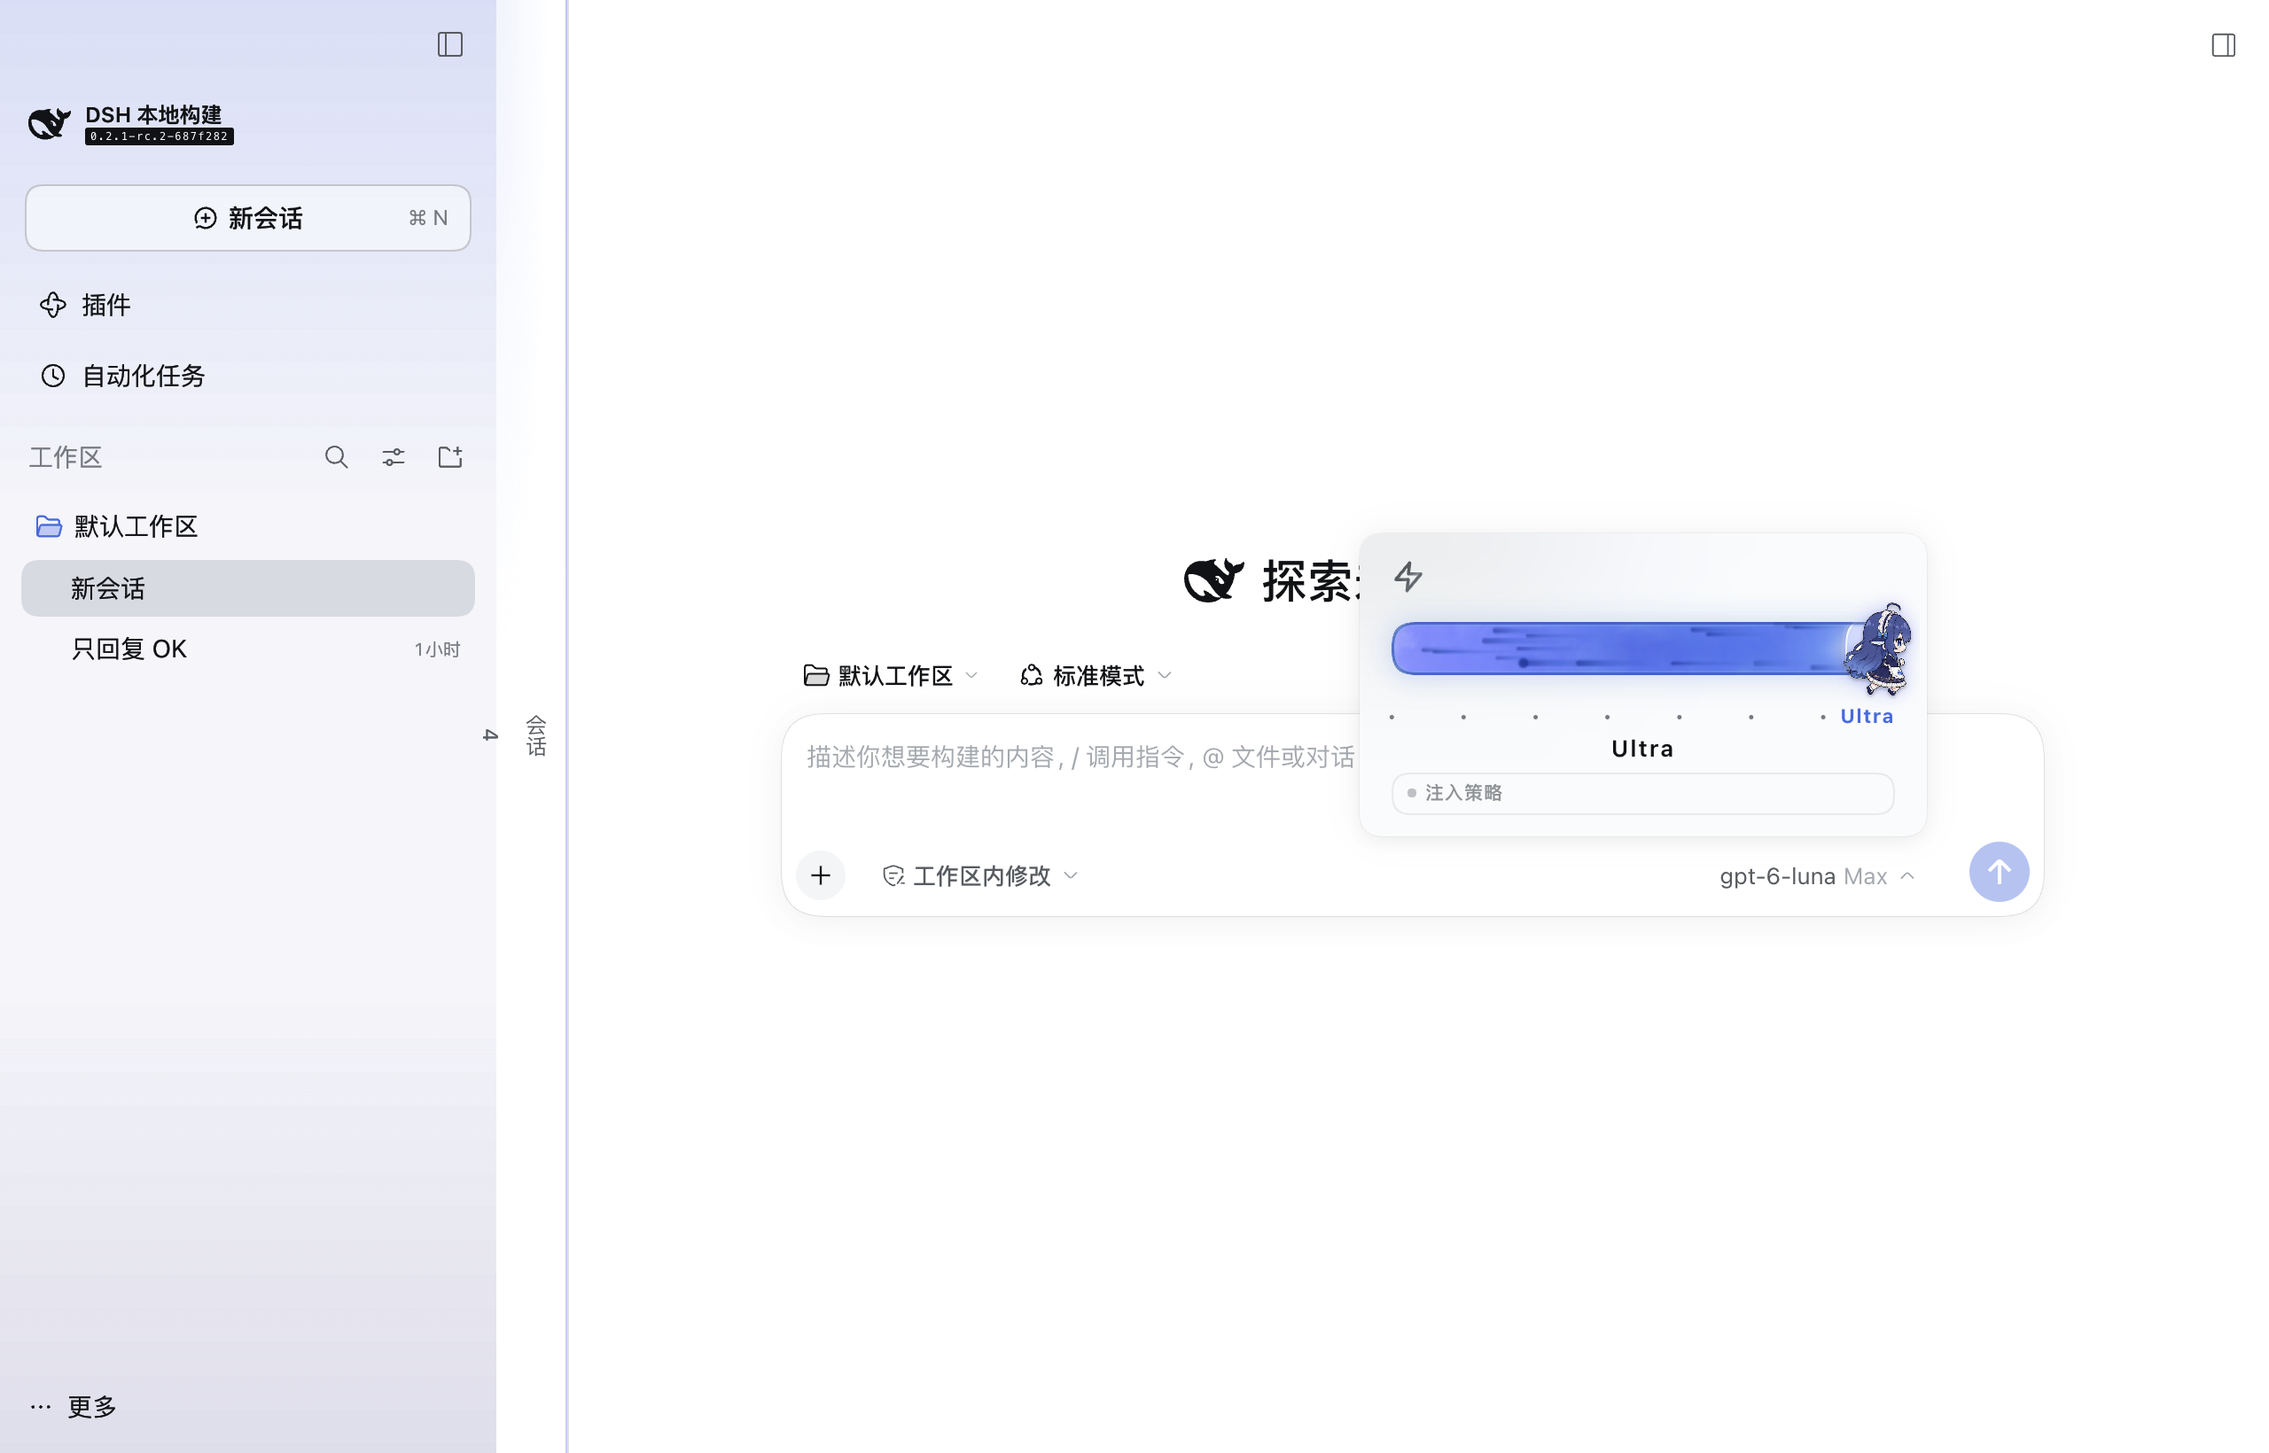
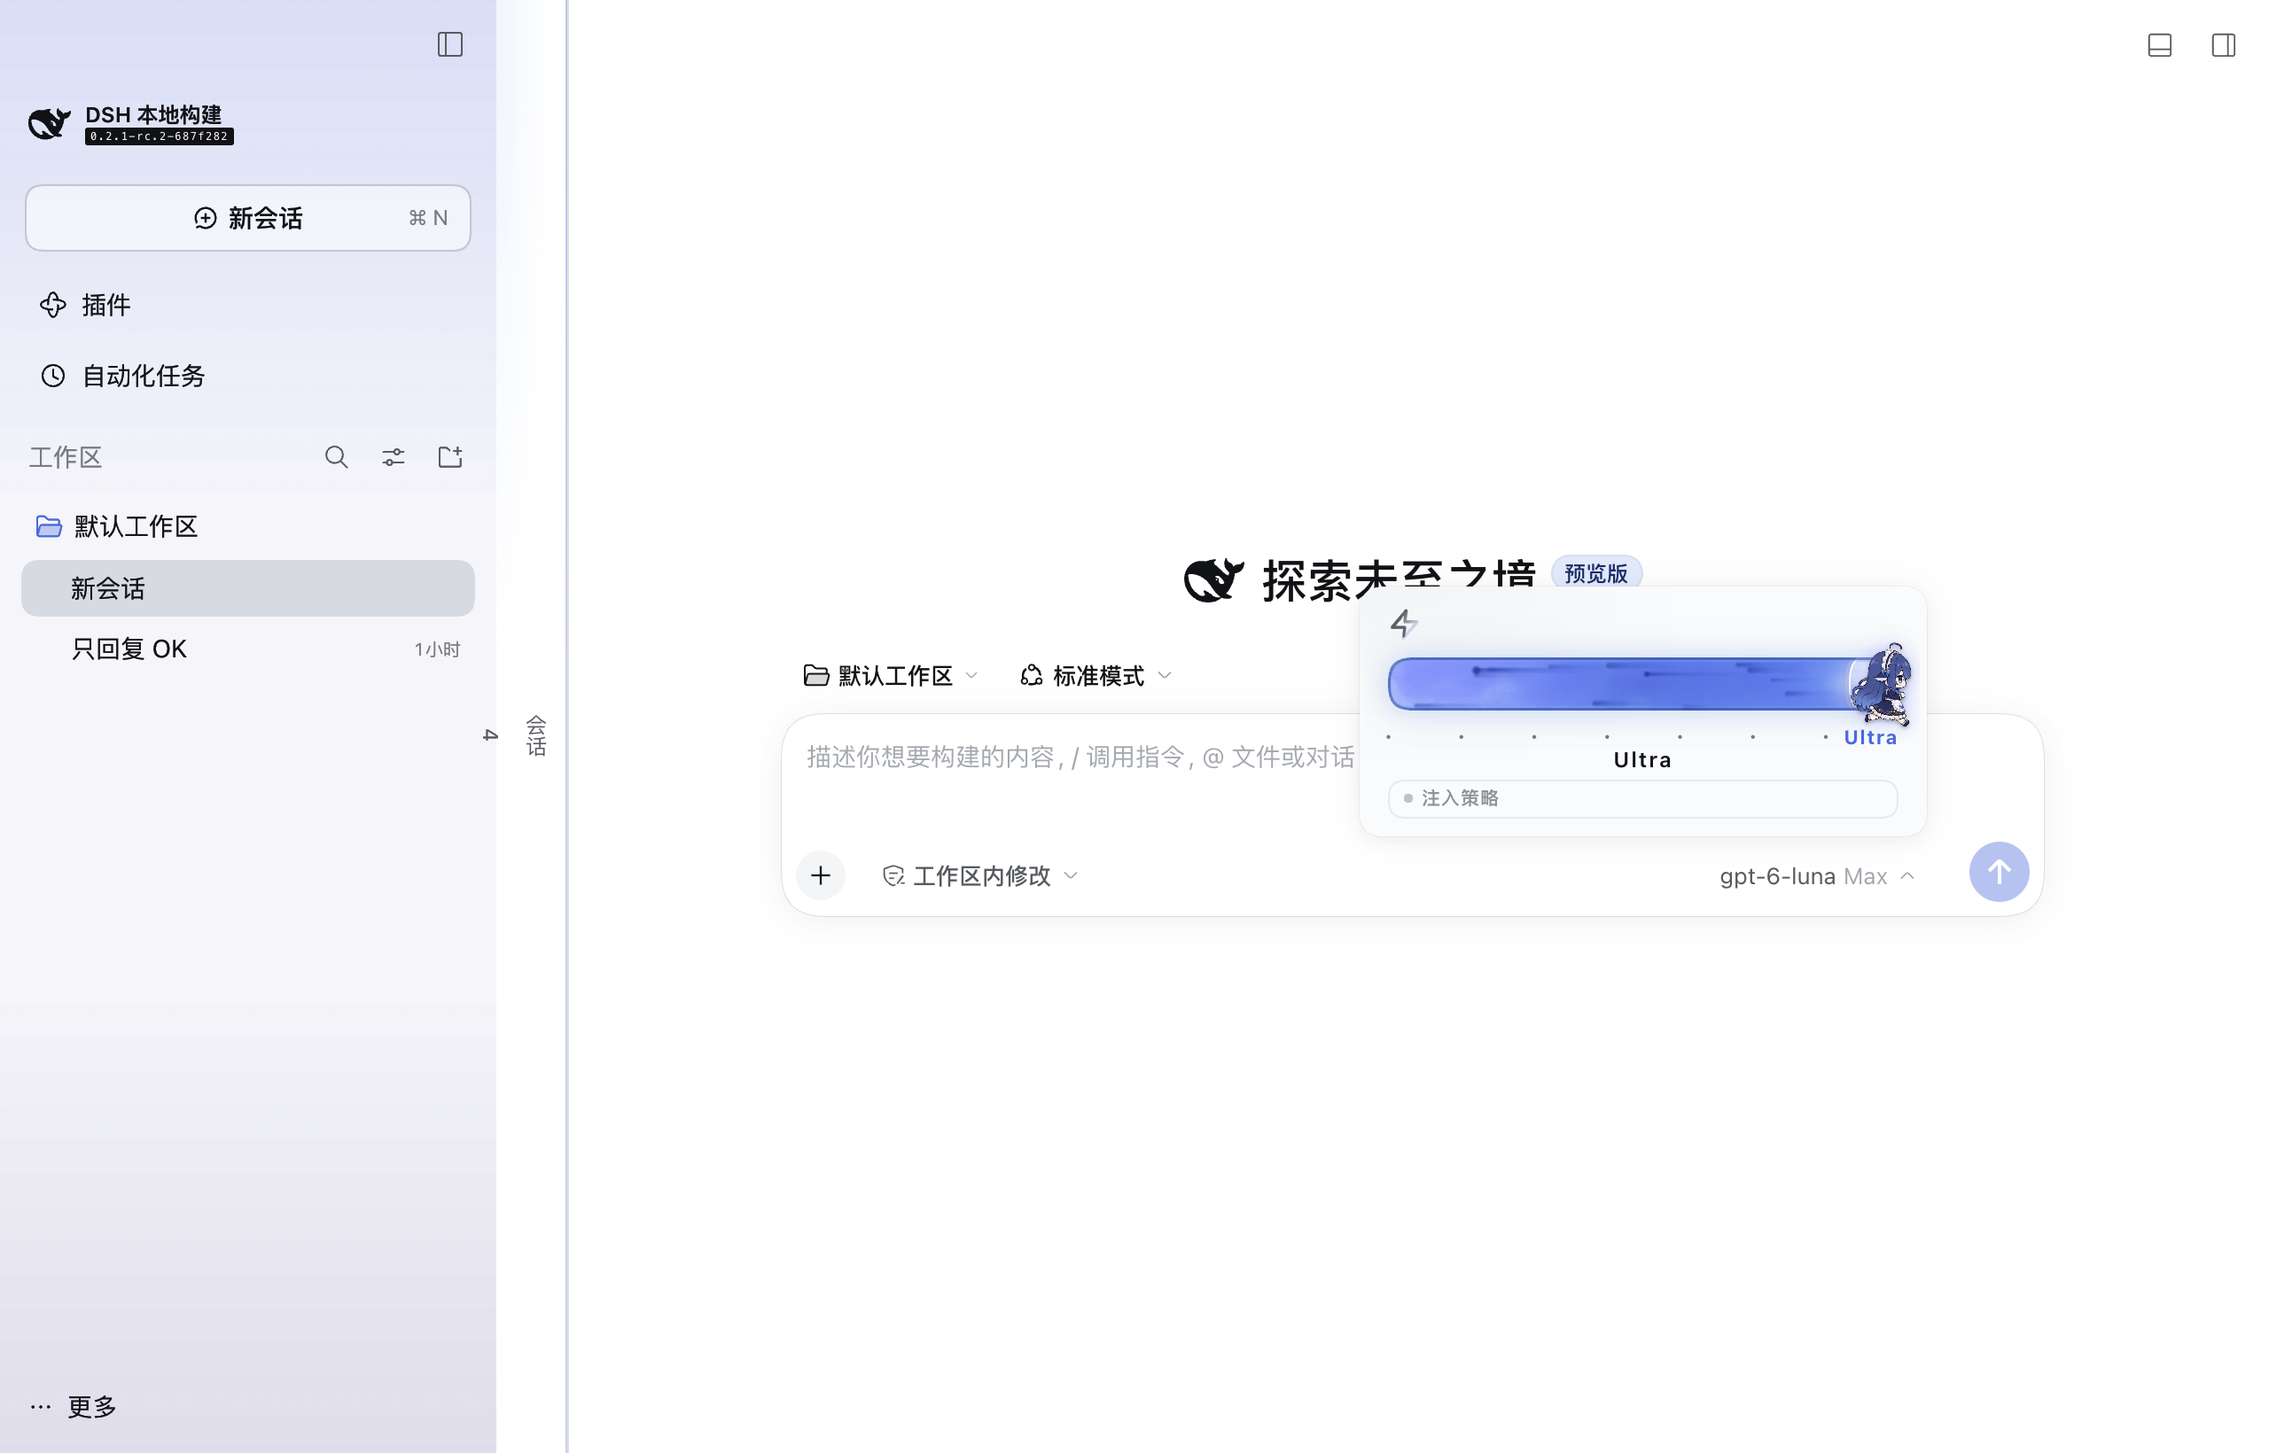
feat(dsh-whale-effort): 0.2.3 tighten the effort pane layout
Compact the reasoning-effort pane: 18px header row with 20/28px top padding
(chibi sprite 40x55 -> 36x50), 12px tick row with 8px chibi spacing, 12px name
line at 15px line-height, 8/12/6px pane padding and a 20px policy chip 2px
below. Same features and behavior; roughly 15% shorter pane.

Changed region(s): [[0.5938, 0.3732, 0.8438, 0.5287], [0.625, 0.5287, 0.6562, 0.5598]]

diff --git a/plugins/dsh-whale-effort/src/client/styles.ts b/plugins/dsh-whale-effort/src/client/styles.ts
@@ -22,20 +22,20 @@ export const CSS = `
   box-sizing: border-box;
 }
 .re-effort-name {
-  margin-top: 2px;
+  margin-top: 0;
   color: var(--dsw-alias-label-secondary, #686c75);
-  font-size: 13px;
-  line-height: 1.5;
+  font-size: 12px;
+  line-height: 15px;
   text-align: center;
   overflow-wrap: anywhere;
 }
-.re-effort-ticks { position: relative; height: 16px; margin-top: 4px; }
+.re-effort-ticks { position: relative; height: 12px; margin-top: 2px; }
 .re-effort-tick {
   position: absolute;
   transform: translateX(-50%);
   color: var(--dsw-alias-label-tertiary, #9296a0);
-  font-size: 22px;
-  line-height: 16px;
+  font-size: 18px;
+  line-height: 12px;
   user-select: none;
 }
 .re-effort-tick.is-selected { color: var(--dsw-static-deepseek-500, #4d70ff); font-weight: 700; }
@@ -141,16 +141,16 @@ export const CSS = `
   transition: left 190ms cubic-bezier(.22,1,.36,1), transform 160ms ease, box-shadow 180ms ease;
   pointer-events: none;
 }
-.re-effort.is-chibi { padding-top: 12px; }
+.re-effort.is-chibi { padding-top: 10px; }
 /* Header row (lightning toggle left, fleet readout right) floats above the
    track; the extra top padding keeps the chibi thumb from painting over it. */
-.re-effort.has-head { padding-top: 24px; }
-.re-effort.is-chibi.has-head { padding-top: 36px; }
-.re-effort.is-chibi .re-effort-ticks { margin-top: 14px; }
+.re-effort.has-head { padding-top: 22px; }
+.re-effort.is-chibi.has-head { padding-top: 30px; }
+.re-effort.is-chibi .re-effort-ticks { margin-top: 8px; }
 .re-effort.is-chibi .re-effort-knob {
   left: clamp(10px, var(--re-progress), calc(100% - 10px));
-  width: 40px;
-  height: 55px;
+  width: 36px;
+  height: 50px;
   border: 0;
   border-radius: 8px;
   background-color: transparent;
@@ -328,8 +328,8 @@ export const CSS = `
 .re-advanced {
   padding: 14px;
 }
-.re-native-effort .re-advanced { padding: 10px 14px 8px; }
-.re-native-effort .re-effort-name { line-height: 18px; }
+.re-native-effort .re-advanced { padding: 8px 12px 6px; }
+.re-native-effort .re-effort-name { line-height: 15px; }
 .re-effort-unavailable {
   padding: 10px 14px 0;
   text-align: center;
@@ -759,7 +759,7 @@ body[data-ds-dark-theme] .re-adapt-panel {
   align-items: center;
   justify-content: space-between;
   gap: 8px;
-  height: 20px;
+  height: 18px;
 }
 .re-effort-turbo-note {
   color: var(--dsw-alias-label-tertiary, #9296a0);
@@ -767,7 +767,9 @@ body[data-ds-dark-theme] .re-adapt-panel {
   line-height: 1.4;
   text-align: center;
 }
-.re-effort-policy { margin-top: 4px; }
+.re-effort-policy { margin-top: 2px; }
+.re-effort-policy .we-policy__chip { height: 20px; }
+.re-effort-policy .we-policy { border-radius: 999px; }
 
 .re-skin-group {
   display: flex;

diff --git a/plugins/dsh-whale-effort/lib/client.js b/plugins/dsh-whale-effort/lib/client.js
@@ -266,20 +266,20 @@ var CSS = `
   box-sizing: border-box;
 }
 .re-effort-name {
-  margin-top: 2px;
+  margin-top: 0;
   color: var(--dsw-alias-label-secondary, #686c75);
-  font-size: 13px;
-  line-height: 1.5;
+  font-size: 12px;
+  line-height: 15px;
   text-align: center;
   overflow-wrap: anywhere;
 }
-.re-effort-ticks { position: relative; height: 16px; margin-top: 4px; }
+.re-effort-ticks { position: relative; height: 12px; margin-top: 2px; }
 .re-effort-tick {
   position: absolute;
   transform: translateX(-50%);
   color: var(--dsw-alias-label-tertiary, #9296a0);
-  font-size: 22px;
-  line-height: 16px;
+  font-size: 18px;
+  line-height: 12px;
   user-select: none;
 }
 .re-effort-tick.is-selected { color: var(--dsw-static-deepseek-500, #4d70ff); font-weight: 700; }
@@ -385,16 +385,16 @@ var CSS = `
   transition: left 190ms cubic-bezier(.22,1,.36,1), transform 160ms ease, box-shadow 180ms ease;
   pointer-events: none;
 }
-.re-effort.is-chibi { padding-top: 12px; }
+.re-effort.is-chibi { padding-top: 10px; }
 /* Header row (lightning toggle left, fleet readout right) floats above the
    track; the extra top padding keeps the chibi thumb from painting over it. */
-.re-effort.has-head { padding-top: 24px; }
-.re-effort.is-chibi.has-head { padding-top: 36px; }
-.re-effort.is-chibi .re-effort-ticks { margin-top: 14px; }
+.re-effort.has-head { padding-top: 22px; }
+.re-effort.is-chibi.has-head { padding-top: 30px; }
+.re-effort.is-chibi .re-effort-ticks { margin-top: 8px; }
 .re-effort.is-chibi .re-effort-knob {
   left: clamp(10px, var(--re-progress), calc(100% - 10px));
-  width: 40px;
-  height: 55px;
+  width: 36px;
+  height: 50px;
   border: 0;
   border-radius: 8px;
   background-color: transparent;
@@ -572,8 +572,8 @@ var CSS = `
 .re-advanced {
   padding: 14px;
 }
-.re-native-effort .re-advanced { padding: 10px 14px 8px; }
-.re-native-effort .re-effort-name { line-height: 18px; }
+.re-native-effort .re-advanced { padding: 8px 12px 6px; }
+.re-native-effort .re-effort-name { line-height: 15px; }
 .re-effort-unavailable {
   padding: 10px 14px 0;
   text-align: center;
@@ -1003,7 +1003,7 @@ body[data-ds-dark-theme] .re-adapt-panel {
   align-items: center;
   justify-content: space-between;
   gap: 8px;
-  height: 20px;
+  height: 18px;
 }
 .re-effort-turbo-note {
   color: var(--dsw-alias-label-tertiary, #9296a0);
@@ -1011,7 +1011,9 @@ body[data-ds-dark-theme] .re-adapt-panel {
   line-height: 1.4;
   text-align: center;
 }
-.re-effort-policy { margin-top: 4px; }
+.re-effort-policy { margin-top: 2px; }
+.re-effort-policy .we-policy__chip { height: 20px; }
+.re-effort-policy .we-policy { border-radius: 999px; }
 
 .re-skin-group {
   display: flex;

diff --git a/README.md b/README.md
@@ -9,7 +9,7 @@
 | 插件 | 功能 | 状态 |
 | --- | --- | --- |
 | [dsh-session-board](plugins/dsh-session-board/) | 会话卡片看板、工作区树、DSH 归档同步、搜索筛选（含「仅归档」一键切换）、自包含 Wiki 归档提炼（设置页可配引擎与规则）、管理中心（常驻管理 Agent，事件驱动自动唤醒）、项目树（按 git 仓库归并多分支工作区）、项目协调会话与工作区/会话间消息 | 实验性，已在 macOS Harness Dev 环境验证 |
-| [dsh-whale-effort](plugins/dsh-whale-effort/) | 推理强度滑条：沿用 DSH 原生模型选择器，在「推理等级」里拖动调节；鲸鱼娘跑者滑块、科幻能量皮肤（holo / chrome / fluid）与流体粒子、Ultra 档（写入模型真实 MAX + 严格性策略）、闪电编排模式（默认关闭）、子代理 tok/s 读数、自定义模型档位指引 | 0.2.2，合并自两个 MIT 上游（原生选择器滑条 + 科幻能量皮肤），Host + Client（TS 源码 + esbuild 构建）；已在 macOS Harness Dev2（DSH 0.2.1-rc.2）实测滑条 / Ultra / 闪电 / 皮肤 / 设置页；实验性 |
+| [dsh-whale-effort](plugins/dsh-whale-effort/) | 推理强度滑条：沿用 DSH 原生模型选择器，在「推理等级」里拖动调节；鲸鱼娘跑者滑块、科幻能量皮肤（holo / chrome / fluid）与流体粒子、Ultra 档（写入模型真实 MAX + 严格性策略）、闪电编排模式（默认关闭）、子代理 tok/s 读数、自定义模型档位指引 | 0.2.3，合并自两个 MIT 上游（原生选择器滑条 + 科幻能量皮肤），Host + Client（TS 源码 + esbuild 构建）；已在 macOS Harness Dev2（DSH 0.2.1-rc.2）实测滑条 / Ultra / 闪电 / 皮肤 / 设置页；实验性 |
 | [dsh-think-bounce-pet](plugins/dsh-think-bounce-pet/) | 思考弹球桌宠：常驻球/思考球、拍飞与拖拽投掷、鼠标碰撞、重力与物理参数实时可调 | 上游 0.1.1，修复 macOS 窗口顶栏拖拽；收录社区插件（MIT），已在本地验证 |
 | [dsh-hide-empty-workspaces](plugins/dsh-hide-empty-workspaces/) | 侧栏视图切换（进行中 / 已归档 / 工作空间）：已归档档按工作区分组（默认折叠），展开可查看并取消归档/打开会话，工作空间档可挑历史工作区开新会话；没有可见会话的工作区在进行中视图隐藏 | 0.3.9，视图选择持久化；空白会话宽限期、设置页可改默认视图与诊断；插件更新后可在设置页「重新加载客户端插件」，强制卸载/重挂载第三方客户端插件（旧标签页也会重建），不刷新页面/不重启/不丢会话 |
 | [dsh-workspace-autoregister](plugins/dsh-workspace-autoregister/) | 会话中新建的工作区目录自动加入工作区列表，并创建首个空会话，无需在侧栏手动添加 | 0.1.0，Host-only，Node 测试 + desktop profile Host 侧端到端收录验证通过；窗口渲染未做 DOM 核对 |

diff --git a/docs/plugin-development-handoff.md b/docs/plugin-development-handoff.md
@@ -4,7 +4,7 @@
 >
 > 适用范围：`dsh-session-board`（本仓库主力插件）、`dsh-whale-effort`（合并插件）、`dsh-hide-empty-workspaces`、`dsh-workspace-autoregister`、`dsh-think-bounce-pet`。
 >
-> 最后更新：2026-10-23（`dsh-session-board` 0.8.2、`dsh-whale-effort` 0.2.2、`dsh-hide-empty-workspaces` 0.3.9、`dsh-workspace-autoregister` 0.1.2、`dsh-think-bounce-pet` 0.1.1）。
+> 最后更新：2026-10-23（`dsh-session-board` 0.8.2、`dsh-whale-effort` 0.2.3、`dsh-hide-empty-workspaces` 0.3.9、`dsh-workspace-autoregister` 0.1.2、`dsh-think-bounce-pet` 0.1.1）。
 >
 > 阅读顺序：§0 是可直接粘贴给新会话的**交接提示词**；§1–§4 是现状与插件地图；§5–§6 是开发/发布闭环；§7–§12 是规则、排障、权威索引、风险与命令卡。
 
@@ -59,7 +59,7 @@
 | 插件 | 形态 | 当前版本 | 维护要点 |
 | --- | --- | --- | --- |
 | `dsh-session-board` | Host + Client（React） | 0.5.1 | 主力插件：看板/全屏浮层、归档与提炼、自包含 Wiki 引擎与设置、管理中心（常驻管理 Agent 面板）；本文件大部分内容围绕它 |
-| `dsh-whale-effort` | Host + Client（TS 源码 + esbuild 构建） | 0.2.2 | 合并插件（MIT 上游）：原生模型选择器「推理等级」滑条 + 鲸鱼娘跑者 + 科幻能量皮肤 + Ultra/闪电 + 子代理 tok/s；Host 单条鉴权 RPC 通道 `POST /dsh-whale-effort/<endpoint>`，状态存 `$DSH_HOME/storages/dsh-whale-effort.json`；开发命令同 session-board（`npm run check/build`） |
+| `dsh-whale-effort` | Host + Client（TS 源码 + esbuild 构建） | 0.2.3 | 合并插件（MIT 上游）：原生模型选择器「推理等级」滑条 + 鲸鱼娘跑者 + 科幻能量皮肤 + Ultra/闪电 + 子代理 tok/s；Host 单条鉴权 RPC 通道 `POST /dsh-whale-effort/<endpoint>`，状态存 `$DSH_HOME/storages/dsh-whale-effort.json`；开发命令同 session-board（`npm run check/build`） |
 | `dsh-hide-empty-workspaces` | 仅 Client（手写 `lib/client.js`，无 `src/`、无构建） | 0.3.9 | 原生侧栏视图切换（进行中/已归档/工作空间）、归档按工作区分组、空白会话宽限期、设置页；「重新加载客户端插件」强制卸载/重挂载第三方客户端插件（旧标签页也会重建），不刷新页面/不重启 |
 | `dsh-workspace-autoregister` | 仅 Host（手写 `lib/index.js`，无构建） | 0.1.2 | 监听成功工具调用的参数，把新出现的工作区目录登记进列表、建首个空白会话、注入 `HANDOFF.md`；嵌套 worktree 同时注册项目主检出根，供原生工作区树归组 |
 | `dsh-think-bounce-pet` | 上游构建产物 | 0.1.1 | 收录社区插件（MIT），仓库里没有上游 `src/`，只在需要时打补丁/加回归测试 |

diff --git a/plugins/dsh-whale-effort/README.en.md b/plugins/dsh-whale-effort/README.en.md
@@ -54,11 +54,11 @@ Requires **DSH `0.2.1-rc.2`** (Web or Desktop profile).
 
 ### Option 1: Release tarball (recommended)
 
-1. Download `dsh-whale-effort-0.2.2.tgz` from [Releases](https://github.com/lxiol-star/deepseek-harness-plugins/releases/tag/dsh-whale-effort-v0.2.2).
+1. Download `dsh-whale-effort-0.2.3.tgz` from [Releases](https://github.com/lxiol-star/deepseek-harness-plugins/releases/tag/dsh-whale-effort-v0.2.3).
 2. In DSH, open **Settings → Plugins → Add plugin** and pick the `.tgz`; or run:
 
    ```sh
-   dsh plugin --profile desktop add /absolute/path/to/dsh-whale-effort-0.2.2.tgz
+   dsh plugin --profile desktop add /absolute/path/to/dsh-whale-effort-0.2.3.tgz
    ```
 
 3. **Fully quit and reopen DSH**: the host and client halves load separately, so refreshing the page does not load new host code.
@@ -68,7 +68,7 @@ Requires **DSH `0.2.1-rc.2`** (Web or Desktop profile).
 Enter this pinned version in the plugin manager's "package name or address" field:
 
 ```text
-github:lxiol-star/deepseek-harness-plugins#dsh-whale-effort-v0.2.2&path:/plugins/dsh-whale-effort
+github:lxiol-star/deepseek-harness-plugins#dsh-whale-effort-v0.2.3&path:/plugins/dsh-whale-effort
 ```
 
 `plugins/dsh-whale-effort/` in the repository is the complete plugin directory and its `lib/` is already built, so no local build is needed.

diff --git a/plugins/dsh-whale-effort/CHANGELOG.md b/plugins/dsh-whale-effort/CHANGELOG.md
@@ -1,5 +1,14 @@
 # Changelog
 
+## 0.2.3 — 2026-10-23
+
+推理等级面板整体压紧，减少纵向占用：
+
+- 头部行 20px → 18px，面板顶部留白 24/36px → 20/28px；鲸鱼娘滑块 40×55 → 36×50，上下留白同步收紧。
+- 刻度行高度 16 → 12px、上间距按鲸鱼娘状态 14 → 8px；档位名行字号 13 → 12px、行高 18 → 15px。
+- 面板内边距 10/14/8 → 8/12/6px；「注入策略」chip 高度 22 → 20px、与上方间距 4 → 2px。
+- 行为与所有功能不变（Ultra、闪电、皮肤、读数、Esc 焦点）；离线测试 159 个全绿；已在 Harness Dev2 对比实测并更新截图。
+
 ## 0.2.2 — 2026-10-23
 
 闪电开关位置调整到推理等级面板的顶部（对齐上游 dsh-effort-slider 的面板布局）：
